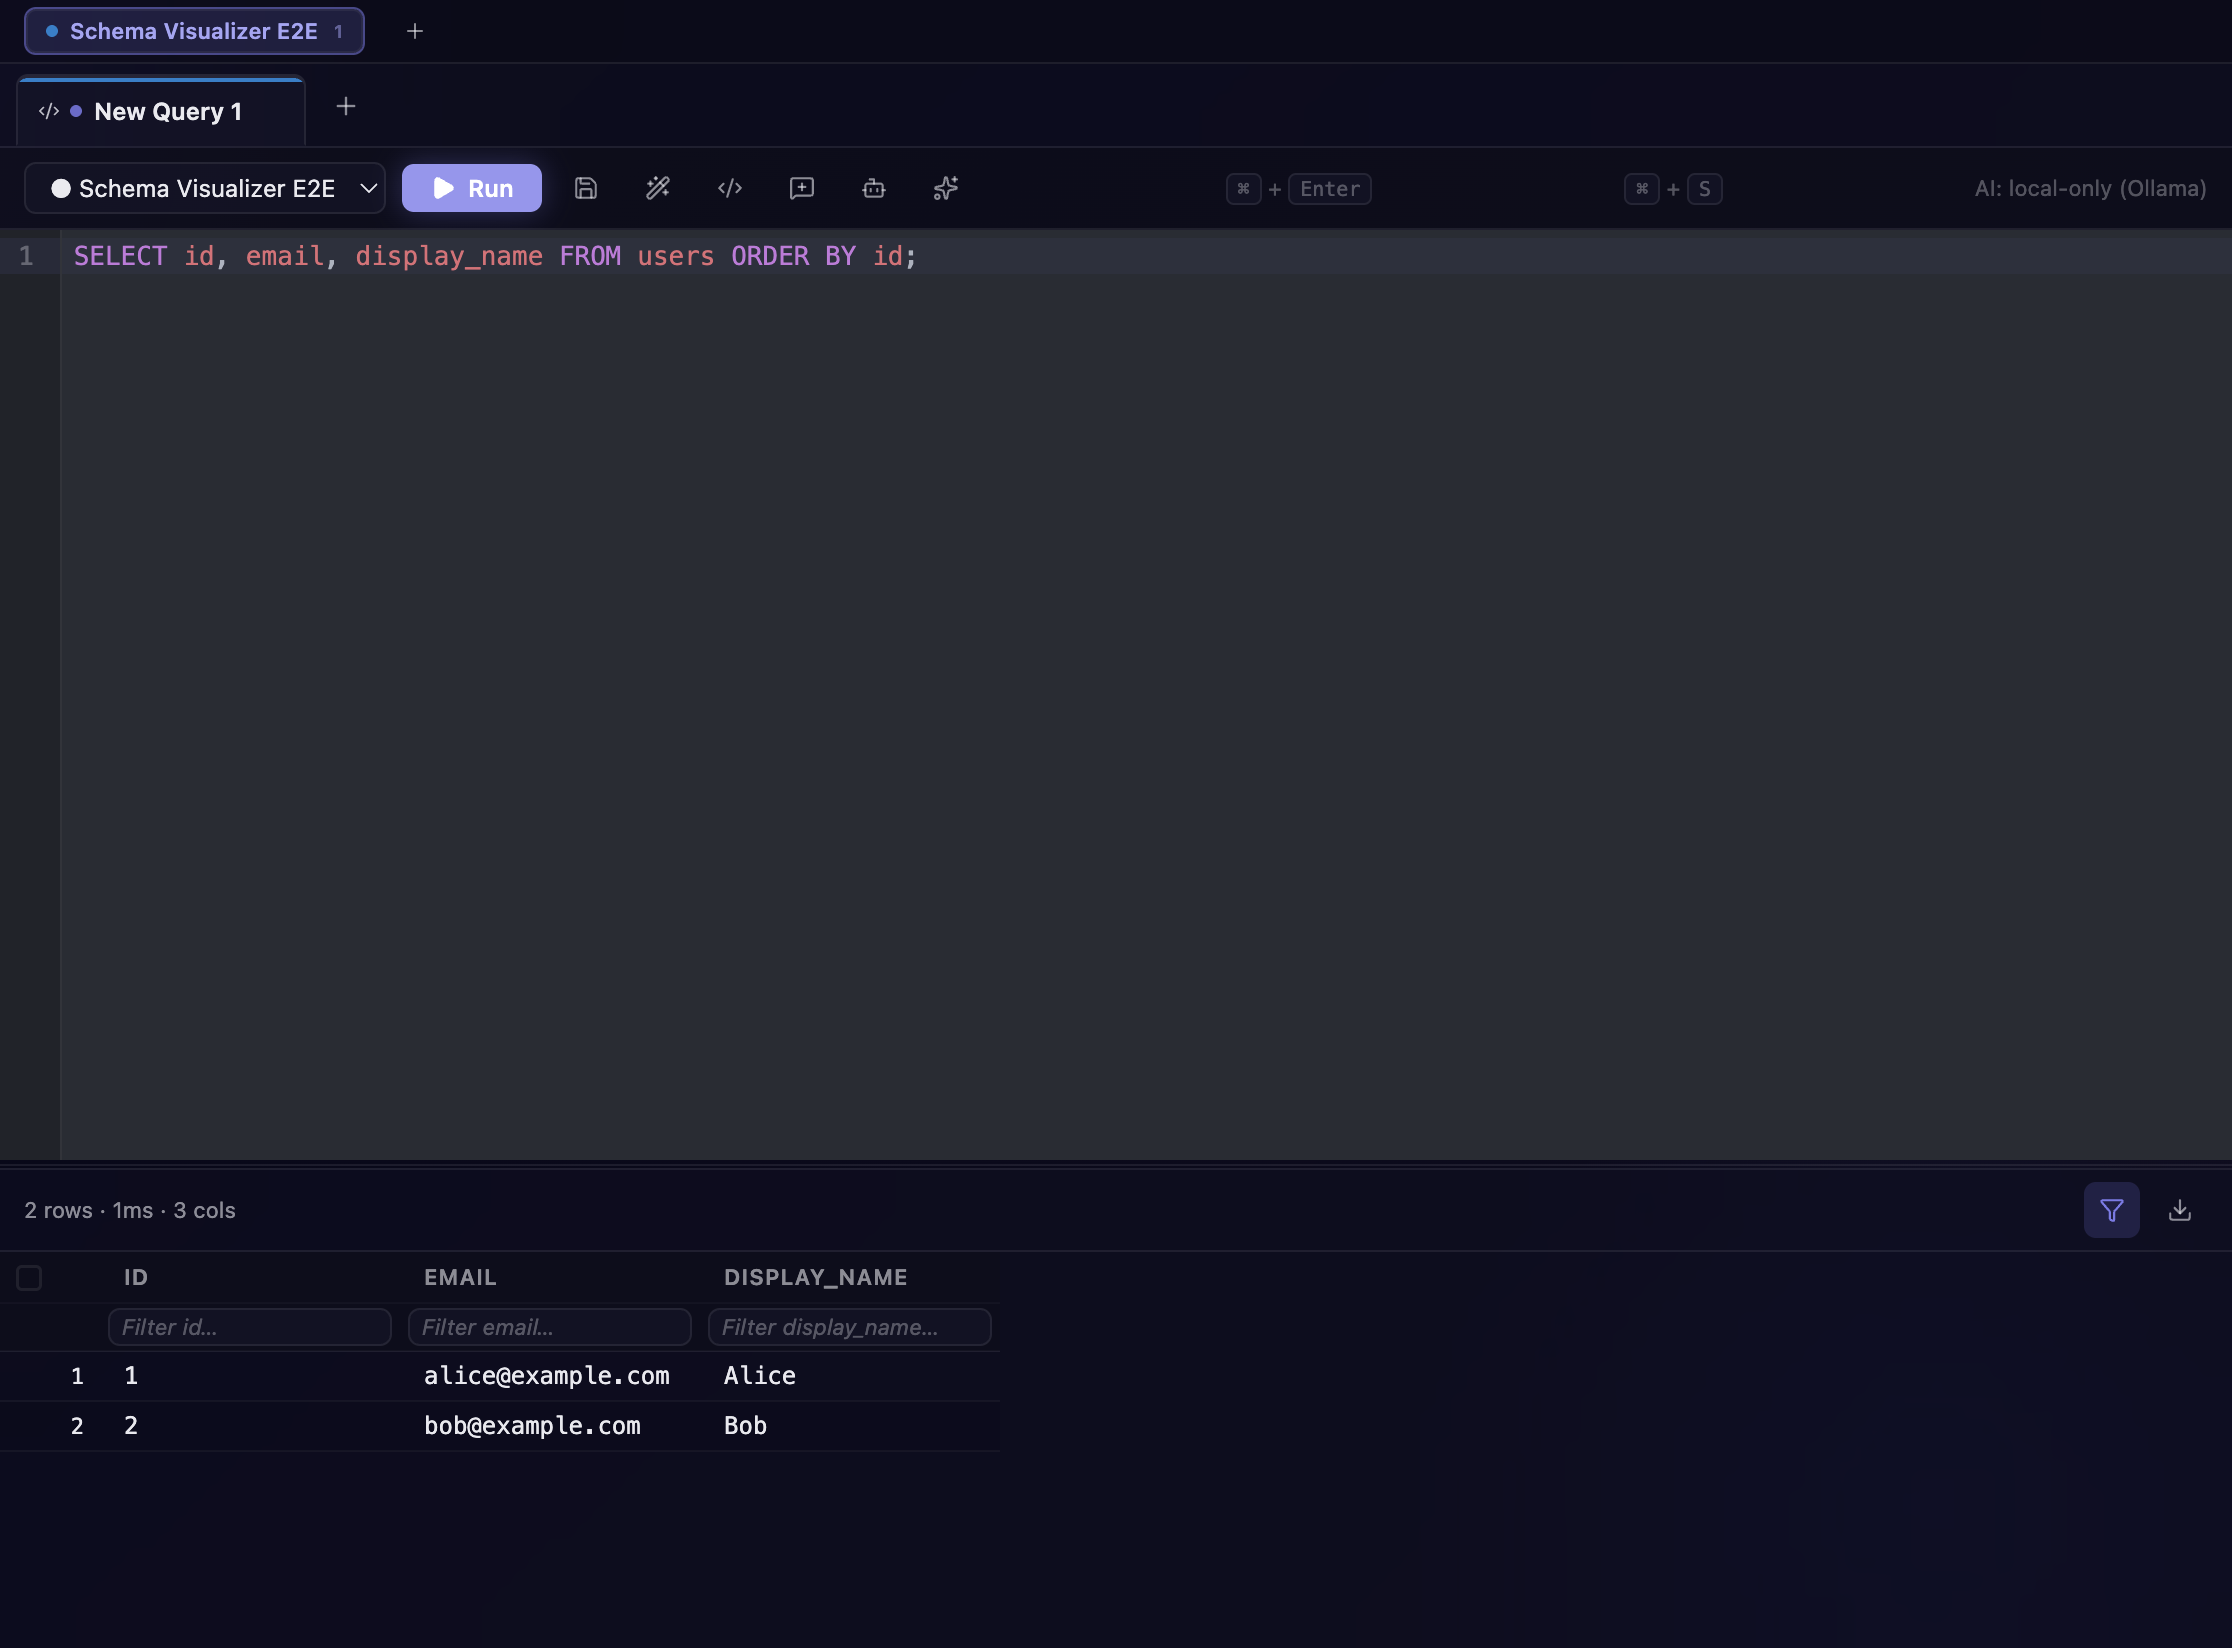
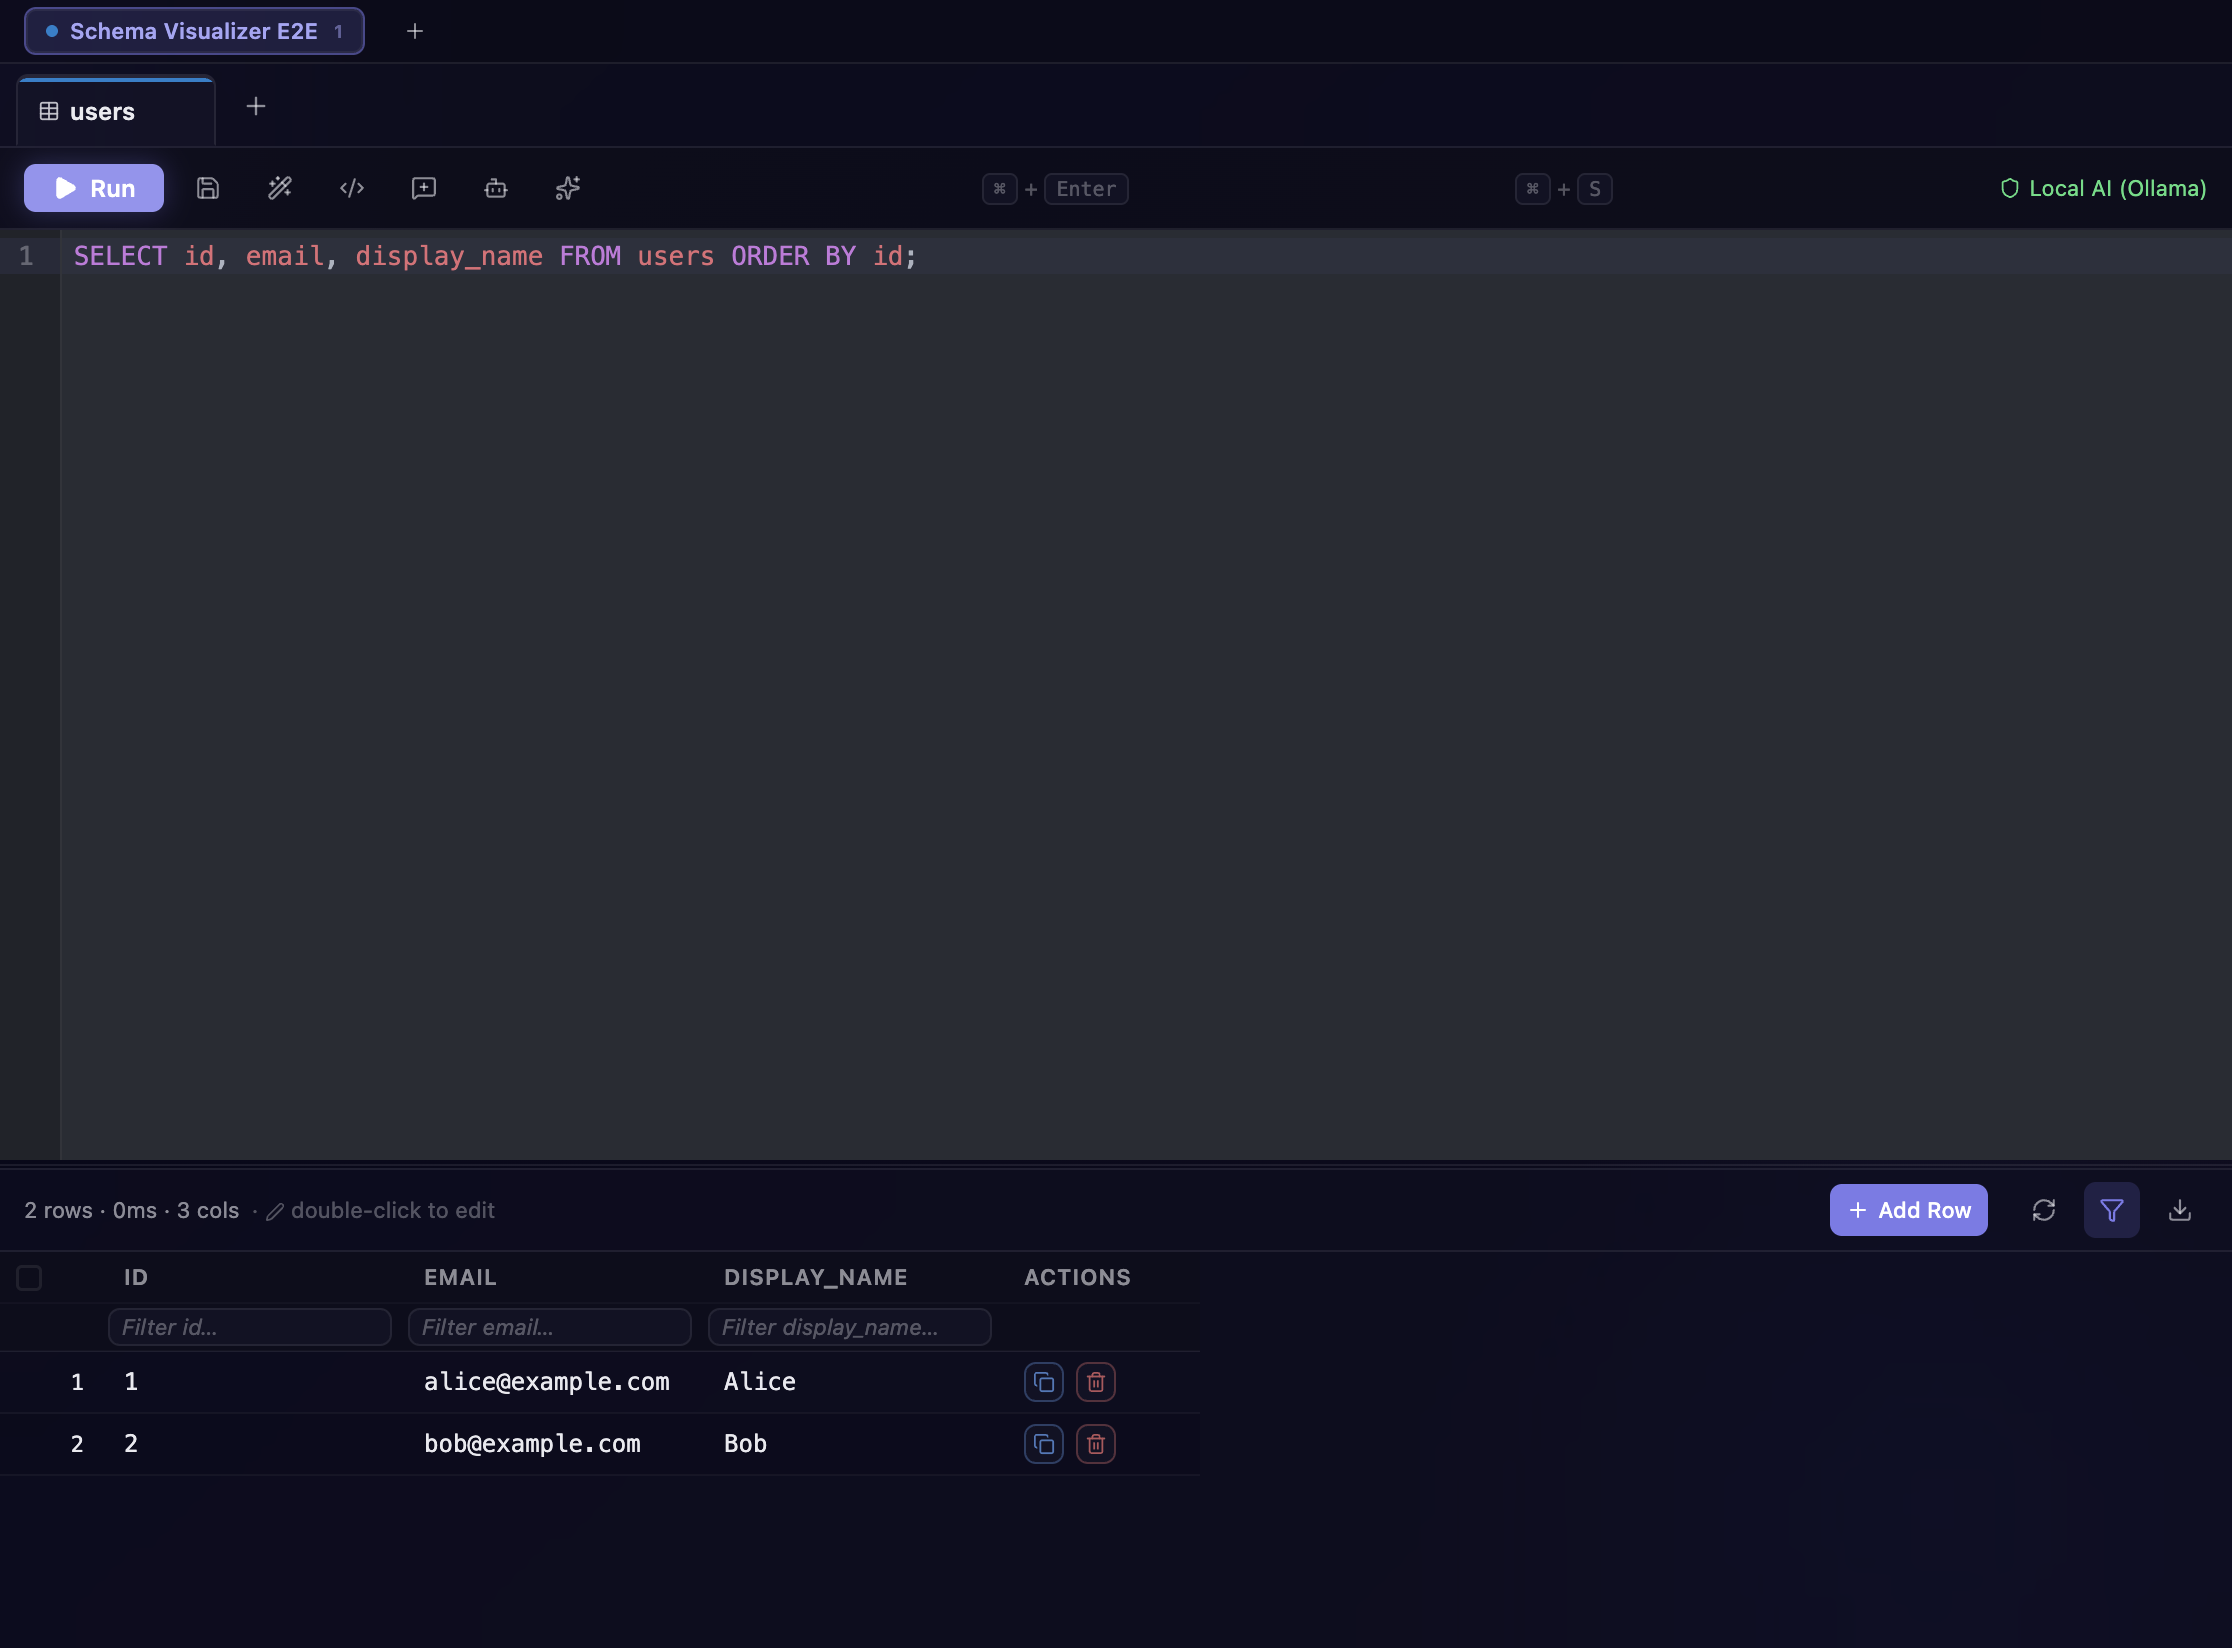
fix: cannot render query editor

diff --git a/tests/database-visualizer.spec.ts b/tests/database-visualizer.spec.ts
@@ -122,13 +122,32 @@ test('renders users/posts/comments schema graph and captures docs screenshots', 
     await expect(mainLayout).toBeVisible()
     await mainLayout.screenshot({ path: DOCS_SCREENSHOTS.mainWindow })
 
-    const newTabButton = page.locator('.tab-new-btn').first()
-    await expect(newTabButton).toBeVisible()
-    await newTabButton.click()
-
     const contentPane = page.locator('.content-pane')
     await expect(contentPane).toBeVisible()
     await contentPane.screenshot({ path: DOCS_SCREENSHOTS.queryEditorFlow })
+
+    // Wait for sidebar to load tables
+    await page.locator('.sidebar-body').getByText('Schema Visualizer E2E', { exact: true }).click()
+    await page.waitForTimeout(2000)
+
+    // Expand the 'main' database
+    await page.locator('.sidebar-body').getByText('main', { exact: true }).click()
+    await page.waitForTimeout(2000)
+
+    // Expand 'Tables (3)'
+    await page.locator('.sidebar-body').getByText('Tables (3)', { exact: true }).click()
+    await page.waitForTimeout(2000)
+
+    // Try to find the 'users' table
+    const usersItem = page.locator('.sidebar-body').getByText('users', { exact: true })
+    await expect(usersItem).toBeVisible({ timeout: 15000 })
+    await usersItem.click()
+
+    // Should open posts table
+    await expect(page.locator('.tab.active')).toContainText('users')
+
+    // Wait for data to load
+    await page.waitForTimeout(3000)
 
     await runSql(page, 'SELECT id, email, display_name FROM users ORDER BY id;')
     await contentPane.screenshot({ path: DOCS_SCREENSHOTS.queryDataFlow })

diff --git a/src/renderer/src/components/QueryEditor/index.tsx b/src/renderer/src/components/QueryEditor/index.tsx
@@ -3,7 +3,7 @@ import { createPortal } from 'react-dom'
 import CodeMirror from '@uiw/react-codemirror'
 import { sql as sqlLang, StandardSQL } from '@codemirror/lang-sql'
 import { oneDark } from '@codemirror/theme-one-dark'
-import { Play, StopCircle, Save, Wand2, Sparkles, Bot, X, MessageSquarePlus, Code2 } from 'lucide-react'
+import {Play, StopCircle, Save, Wand2, Sparkles, Bot, X, MessageSquarePlus, Code2, Shield} from 'lucide-react'
 import { useAppStore } from '../../store'
 import { useIsLightTheme } from '../../hooks/useIsLightTheme'
 import { useTranslation } from '../../hooks/useTranslation'

diff --git a/src/renderer/src/components/TabBar/index.tsx b/src/renderer/src/components/TabBar/index.tsx
@@ -15,7 +15,7 @@ function TabIcon({ tabType }: { tabType: 'query' | 'table' | 'procedure' | undef
   return <Code2 size={11} style={{ flexShrink: 0, opacity: 0.8 }} />
 }
 
-export function TabBar(): React.JSX.Element {
+export function TabBar(): React.JSX.Element | null {
   const {
     tabs,
     activeTabId,

diff --git a/src/renderer/src/store/index.ts b/src/renderer/src/store/index.ts
@@ -108,6 +108,7 @@ declare global {
         prompt?: string
         sql?: string
         dbType?: string
+        schemaContext?: string
       }): Promise<{ success: boolean; output?: string; error?: string }>
       listAIModels(request?: {
         provider?: 'ollama' | 'openai-compatible'
